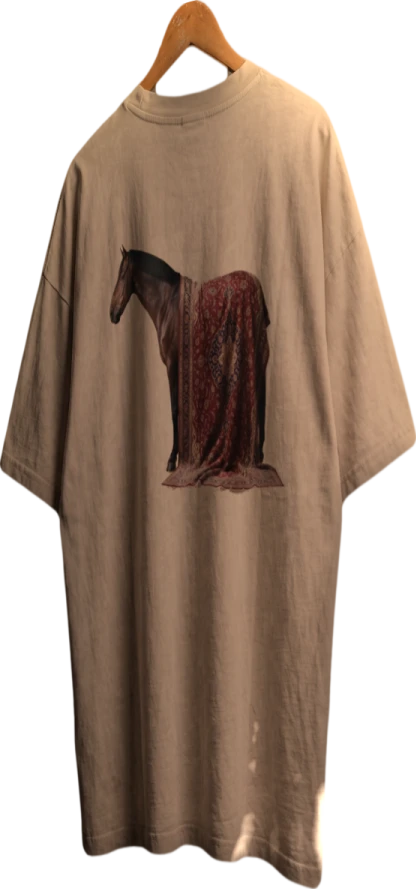
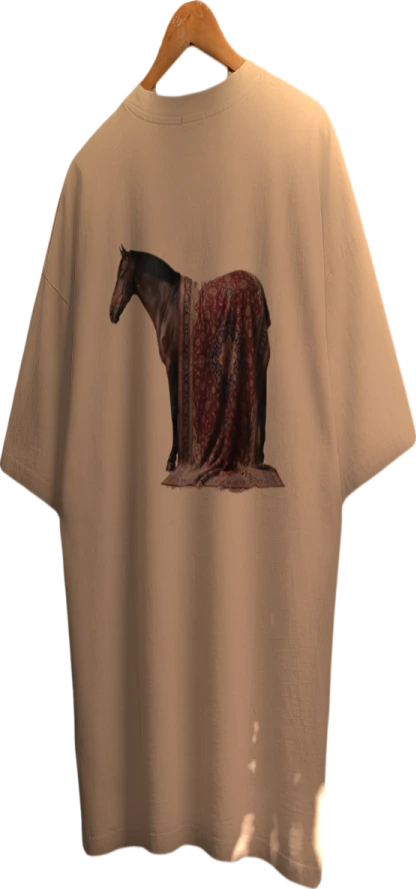
Cleaner, sharper tees: deeper charcoal, crisp cream, tone-matched pull-out backdrops
Claude-Session: https://claude.ai/code/session_017Ju3v1Wm9qiCWbJhr3avMd

diff --git a/js/wardrobe.js b/js/wardrobe.js
@@ -9,13 +9,13 @@
   const RACK = { x: 0.29095, y: 0.16493, w: 0.42026, h: 0.48611 };
 
   const TEES = [
-    { k:'horse',      slug:'carpet-horse',  name:'Carpet Horse',    col:'Bone' },
-    { k:'mughal',     slug:'mughal-letter', name:'Mughal Letter',   col:'Washed Charcoal' },
-    { k:'roses',      slug:'rose-garden',   name:'Rose Garden',     col:'Bone' },
-    { k:'budapest',   slug:'budapest',      name:'Budapest',        col:'Washed Charcoal' },
-    { k:'nighthawks', slug:'nighthawks',    name:'Nighthawks',      col:'Bone' },
-    { k:'vertigo',    slug:'vertigo',       name:'Vertigo',         col:'Washed Charcoal' },
-    { k:'wave',       slug:'the-wave',      name:'The Wave',        col:'Washed Charcoal' }
+    { k:'horse',      slug:'carpet-horse',  name:'Carpet Horse',    col:'Bone', tone:'dark' },
+    { k:'mughal',     slug:'mughal-letter', name:'Mughal Letter',   col:'Washed Charcoal', tone:'light' },
+    { k:'roses',      slug:'rose-garden',   name:'Rose Garden',     col:'Bone', tone:'dark' },
+    { k:'budapest',   slug:'budapest',      name:'Budapest',        col:'Washed Charcoal', tone:'light' },
+    { k:'nighthawks', slug:'nighthawks',    name:'Nighthawks',      col:'Bone', tone:'dark' },
+    { k:'vertigo',    slug:'vertigo',       name:'Vertigo',         col:'Washed Charcoal', tone:'light' },
+    { k:'wave',       slug:'the-wave',      name:'The Wave',        col:'Washed Charcoal', tone:'light' }
   ];
   const href = t => 'product-' + t.slug + '.html';
 
@@ -159,6 +159,8 @@
   const setPull = i => {
     cur = (i + TEES.length) % TEES.length;
     const t = TEES[cur];
+    pull.classList.toggle('tone-light', t.tone === 'light');
+    document.body.classList.toggle('wr-light', t.tone === 'light' && !pull.hidden);
     pullImg.src = `assets/hero/pull-${t.k}.webp`; pullImg.alt = t.name + ' t-shirt, back';
     $('wrPullName').textContent = t.name;
     $('wrPullMeta').textContent = t.col + ' · RM 169';
@@ -169,6 +171,7 @@
     lastFocus = document.activeElement;
     setPull(i);
     pull.hidden = false; pull.classList.remove('on', 'settled');
+    document.body.classList.toggle('wr-light', TEES[cur].tone === 'light');
     pullTee.style.transition = 'none';
     // start where the tee hangs (FLIP)
     const pr = pullTee.getBoundingClientRect();
@@ -185,6 +188,7 @@
   function closePull(instant) {
     if (pull.hidden) return;
     pull.classList.remove('on', 'settled');
+    document.body.classList.remove('wr-light');
     setTimeout(() => { pull.hidden = true; }, instant || reduce ? 0 : 450);
     if (lastFocus && lastFocus.focus) lastFocus.focus({ preventScroll: true });
   }

diff --git a/css/styles.css b/css/styles.css
@@ -512,3 +512,14 @@ a.piece{text-decoration:none;color:inherit;display:flex;}
   .wr-world,.wr-closed,.wr-rack,.wr-layer,.wr-pull,.wr-pull-info,.wr-tag{transition:none!important;}
   .wr-touchhint .dot{animation:none;}
 }
+
+/* pull-out: light stone backdrop behind the dark tees so they read crisp and rich */
+.wr-pull.tone-light{background:radial-gradient(ellipse at 50% 38%,#efe5d0,#c5ad88 70%,#a8906b);}
+.wr-pull.tone-light .wr-pull-info,.wr-pull.tone-light .wr-pull-close,.wr-pull.tone-light .wr-pull-nav{color:var(--ink);}
+.wr-pull.tone-light .wr-pull-tee img{filter:drop-shadow(0 28px 34px rgba(60,38,14,.38));}
+.wr-pull.tone-light .wr-btn{border-color:rgba(27,26,21,.7);color:var(--ink);}
+.wr-pull.tone-light .wr-btn.solid,.wr-pull.tone-light .wr-btn:hover{background:var(--ink);color:var(--paper);}
+.wr-pull{transition:opacity .55s ease,background .4s ease;}
+body.wr-light.home .nav:not(.scrolled) .nav-links a{color:var(--ink);text-shadow:none;}
+body.wr-light.home .nav:not(.scrolled) .nav-logo img{filter:none;}
+body.wr-light.home .nav:not(.scrolled) .nav-toggle span{background:var(--ink);}
